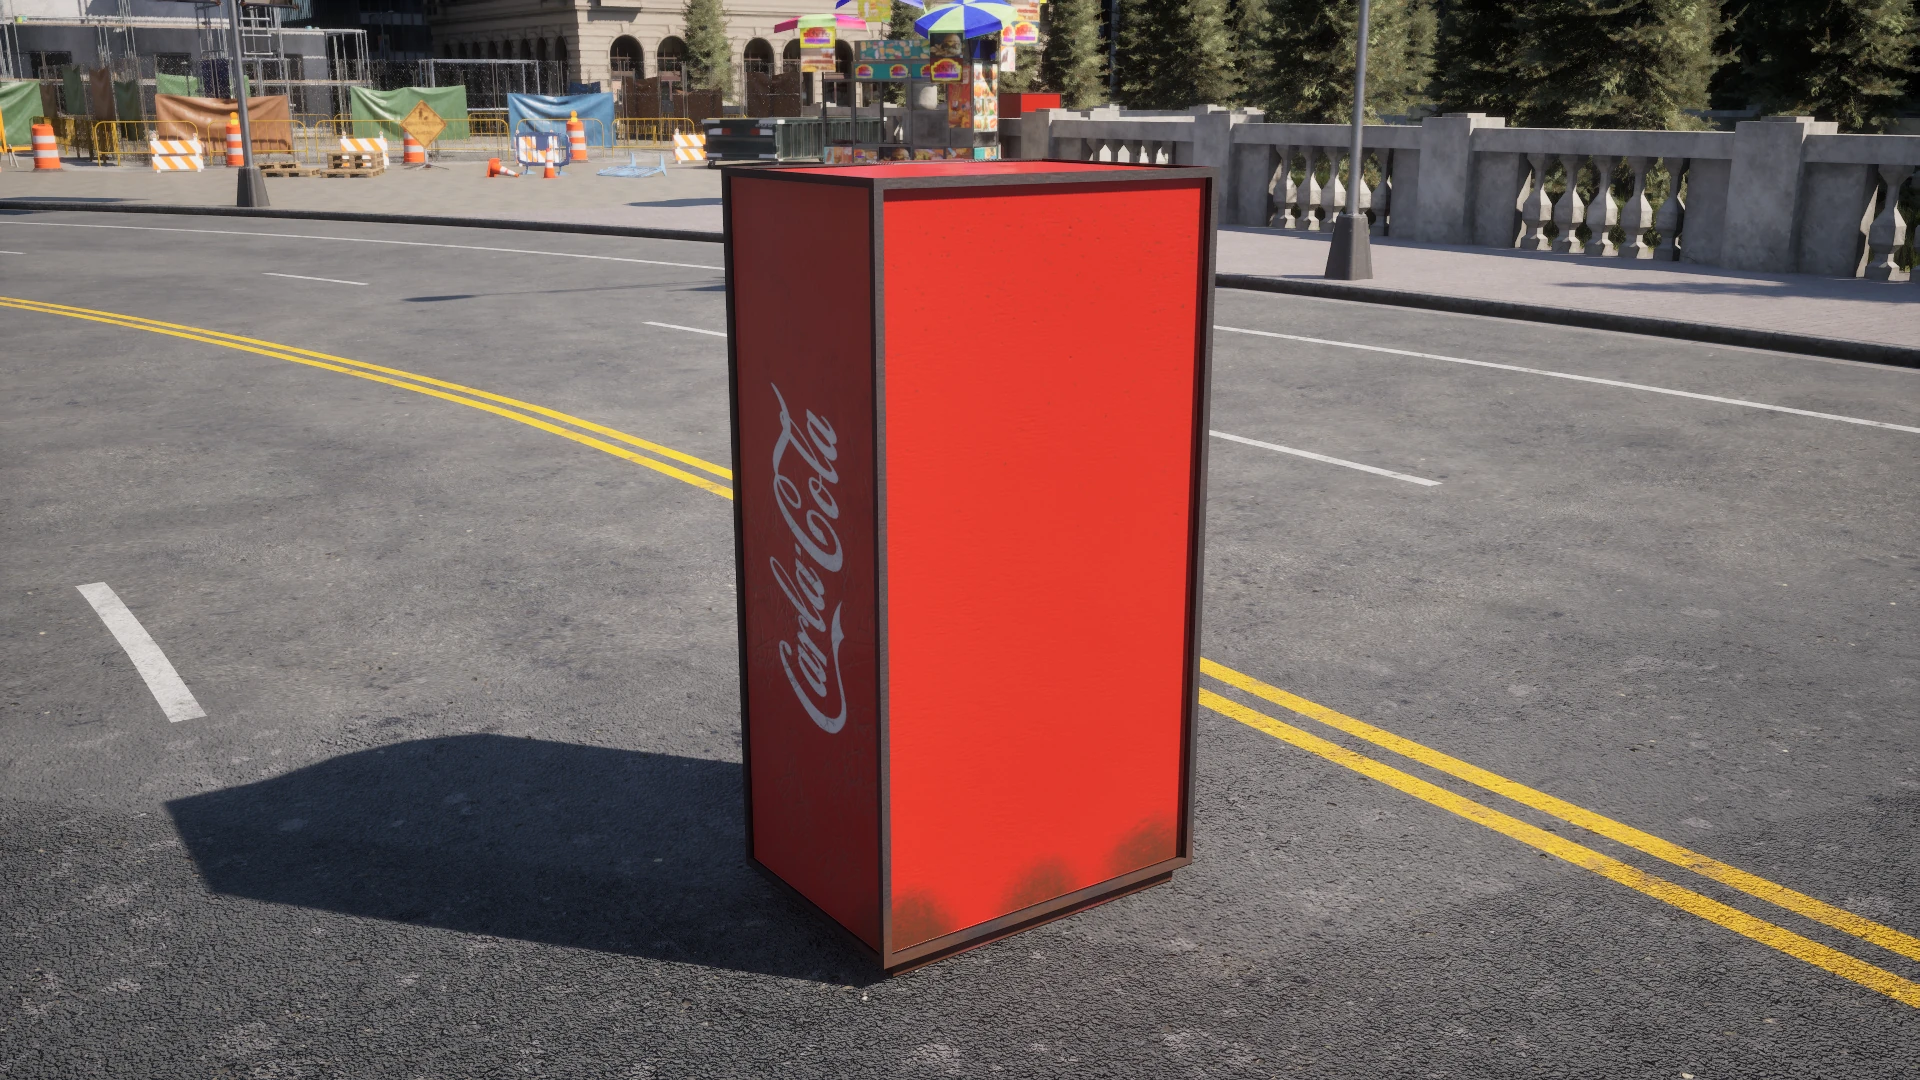
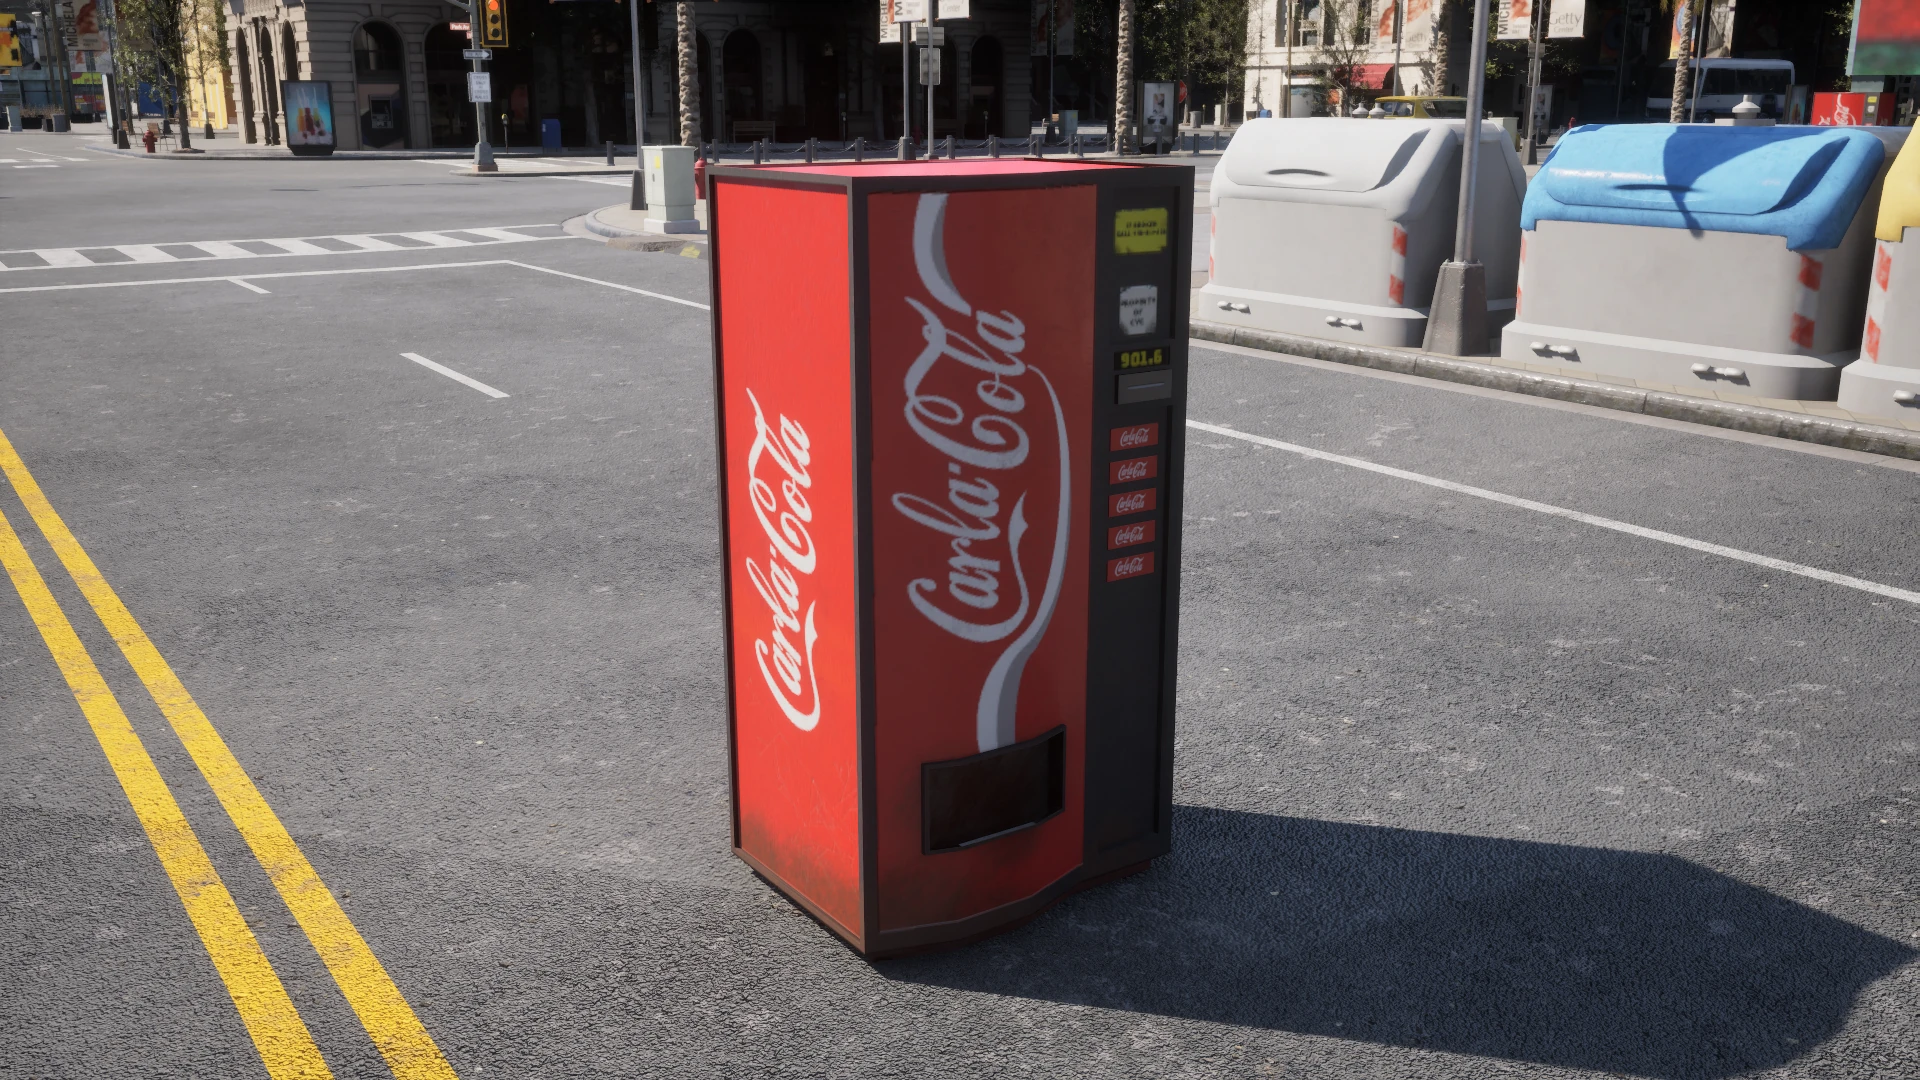
docs(catalogue): show the vending machine and the calibrator from the front
The vending machine was photographed from behind and the calibrator lay flat with its
colour chart facing up. catalogue_doc_gen gains per-prop overrides: PROP_FRAMING
(camera bearing 215 for the vending machine, a frontal view for the calibrator) and
PROP_ROTATION (the calibrator stood up), and grounds turned props from their
world-space box. Both images and the props overview rebuilt.

diff --git a/PythonAPI/docs/catalogue_doc_gen.py b/PythonAPI/docs/catalogue_doc_gen.py
@@ -187,7 +187,8 @@ class Capture(object):
     def camera_for(self, entry, actor=None):
         """One camera for the whole catalogue, one per entry.view, or framed on the actor."""
         if self.framing is not None and actor is not None:
-            return frame_actor(actor, self.framing, self.resolution,
+            framing = dict(self.framing, **PROP_FRAMING.get(actor.type_id, {}))
+            return frame_actor(actor, framing, self.resolution,
                                float(self.camera_attributes.get('fov', 90)))
         if isinstance(self.camera, dict):
             return self.camera[entry.view]
@@ -555,14 +556,38 @@ def prop_entries(library):
     return [(title, groups[title]) for _, title in PROP_GROUPS if groups[title]]
 
 
+# Props whose mesh lies down: the rotation (degrees) added at spawn to stand
+# them up. Yaw is no use here: frame_actor places the camera relative to the
+# actor's heading, so turning the actor turns the camera with it.
+PROP_ROTATION = {
+    'static.prop.calibrator': {'pitch': -90.0},   # the colour chart lies flat; stand it up
+}
+
+# Per-prop framing that replaces the capture's defaults; `bearing` is measured
+# from the actor's heading, so 180 + the default shows a prop modelled back to front.
+PROP_FRAMING = {
+    'static.prop.vendingmachine': {'bearing': 215.0},
+    'static.prop.calibrator': {'bearing': 0.0, 'pitch': -5.0},
+}
+
+
 def ground_prop(actor):
     """Sits a prop on the road: props have no physics, so they stay where spawned.
 
     A plain ground projection can hit the prop itself, so the ray keeps only
-    road-like surfaces.
+    road-like surfaces. The lowest point comes from the world-space vertices of
+    the bounding box, which stays right for a prop turned by PROP_ROTATION.
     """
     world = actor.get_world()
     transform = actor.get_transform()
+    turn = PROP_ROTATION.get(actor.type_id)
+    if turn:
+        transform.rotation.yaw += turn.get('yaw', 0.0)
+        transform.rotation.pitch += turn.get('pitch', 0.0)
+        transform.rotation.roll += turn.get('roll', 0.0)
+        actor.set_transform(transform)
+        world.tick()
+        transform = actor.get_transform()
     ground = (carla.CityObjectLabel.Roads, carla.CityObjectLabel.RoadLines,
               carla.CityObjectLabel.Sidewalks, carla.CityObjectLabel.Ground,
               carla.CityObjectLabel.Terrain)
@@ -570,8 +595,8 @@ def ground_prop(actor):
                                       transform.location - carla.Location(z=5.0))
             if h.label in ground]
     if hits:
-        bottom = actor.bounding_box.location.z - actor.bounding_box.extent.z
-        transform.location.z = hits[0].location.z - bottom + 0.01
+        lowest = min(v.z for v in actor.bounding_box.get_world_vertices(transform))
+        transform.location.z += hits[0].location.z - lowest + 0.01
         actor.set_transform(transform)
 
 
